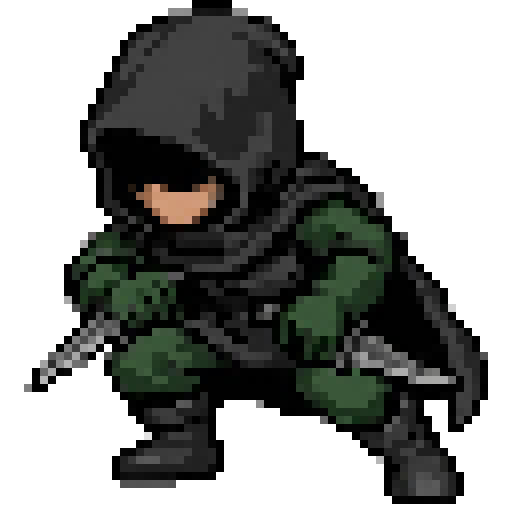
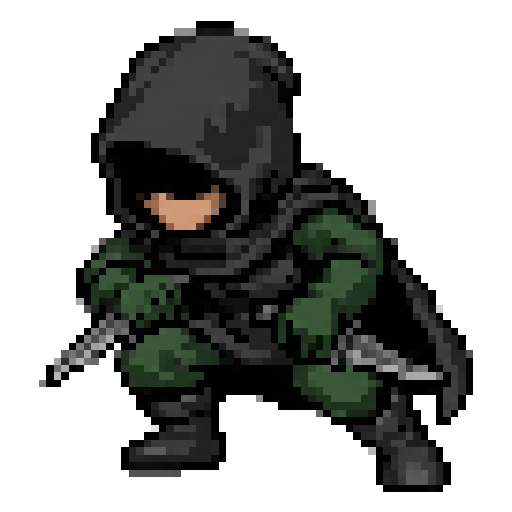
Resize Assassin portrait, archive raw Gemini sources, add enemy tool
- Shrink/recenter the Assassin hero portrait so it fills the frame at
  the same ~92% ratio as the other 5 (it was noticeably bigger in-game).
- Add archive/gemini-sources/ (cards + heroes, 44 files) with the raw
  Gemini images as provided, before pixelation -- kept outside game/ so
  it's never packaged with the game. The 8 Guerrier cards and Paladin's
  Rempart/Provocateur predate this and aren't backfillable (no reliable
  image-to-asset mapping kept for them).
- tools/pixelate-card.js and tools/pixelate-character.js now copy their
  input into that archive automatically on every run.
- Add tools/pixelate-enemy.js, the same pipeline (downscale + nearest-
  neighbour upscale, background stripping, auto-archiving) for the
  upcoming enemy sprite rework, writing to
  game/assets/characters/enemies/<template_id>.png.

Changed region(s): [[0.0312, 0.0, 0.9688, 1.0], [0.5, 0.2188, 0.5312, 0.25]]

diff --git a/tools/pixelate-enemy.js b/tools/pixelate-enemy.js
@@ -1,0 +1,53 @@
+// Post-traitement pixel-art pour les sprites d'ennemi générés "à la main" via un
+// outil externe (Gemini, etc.) -- même principe que tools/pixelate-character.js
+// (downscale vers la grille "character" 64x64 PUIS agrandissement en "plus proche
+// voisin", détourage du fond quasi-blanc) mais écrit dans
+// game/assets/characters/enemies/<template_id>.png (voir Sprites.enemy, sprites.lua).
+//
+// Usage : node tools/pixelate-enemy.js chemin/vers/image-source.png <template_id>
+// `template_id` = l'id de l'ennemi dans game/src/data/enemies.lua (ex. "gobelin",
+// "aigle-vol" pour la variante en vol de l'Aigle Géant).
+//
+// Prérequis important : l'image source doit avoir un fond BLANC ou quasi-blanc
+// (le prompt Gemini doit le demander explicitement) -- stripBackground ne sait
+// détourer que du quasi-blanc, jamais une autre couleur de fond.
+//
+// Archive AUSSI la source brute (2026-09-22, demande explicite -- garder trace de
+// l'image Gemini telle que fournie, avant tout traitement) dans
+// archive/gemini-sources/enemies/<template_id>.png -- hors de game/, jamais
+// empaqueté dans le jeu. Écrase une archive précédente du même id (une
+// regénération remplace l'ancienne source, comme pour l'asset final lui-même).
+
+const fs = require('fs');
+const path = require('path');
+const sharp = require('sharp');
+const { GRID_PRESETS, FINAL_SIZE, stripBackground } = require('./lib/gen-core');
+
+async function main() {
+  const [, , inPath, templateId] = process.argv;
+  if (!inPath || !templateId) {
+    console.error('Usage: node tools/pixelate-enemy.js chemin/vers/image-source.png <template_id>');
+    process.exit(1);
+  }
+  if (!fs.existsSync(inPath)) {
+    console.error('Fichier introuvable :', inPath);
+    process.exit(1);
+  }
+
+  const gridSize = GRID_PRESETS.character;
+  const outPath = path.join(__dirname, '..', 'game', 'assets', 'characters', 'enemies', `${templateId}.png`);
+  fs.mkdirSync(path.dirname(outPath), { recursive: true });
+
+  const archivePath = path.join(__dirname, '..', 'archive', 'gemini-sources', 'enemies', `${templateId}.png`);
+  fs.mkdirSync(path.dirname(archivePath), { recursive: true });
+  fs.copyFileSync(inPath, archivePath);
+
+  const small = await sharp(inPath).resize(gridSize, gridSize, { fit: 'cover', kernel: 'nearest' }).toBuffer();
+  const transparent = await stripBackground(small, gridSize, gridSize);
+  await sharp(transparent).resize(FINAL_SIZE, FINAL_SIZE, { kernel: 'nearest' }).toFile(outPath);
+
+  console.log('OK ->', outPath, `(grille ${gridSize}x${gridSize}, détourée)`);
+  console.log('   archive source ->', archivePath);
+}
+
+main().catch((e) => { console.error('FAILED:', e.message); process.exit(1); });

diff --git a/tools/pixelate-card.js b/tools/pixelate-card.js
@@ -5,6 +5,12 @@
 // Écrit dans game/assets/cards/<code-carte>.png (voir Sprites.card, sprites.lua --
 // le jeu charge l'illustration par CE code, pas par le nom affiché de la carte).
 //
+// Archive AUSSI la source brute (2026-09-22, demande explicite -- garder trace de
+// l'image Gemini telle que fournie, avant tout traitement) dans
+// archive/gemini-sources/cards/<code-carte>.png -- hors de game/, jamais empaqueté
+// dans le jeu. Écrase une archive précédente du même code (une regénération remplace
+// l'ancienne source, comme pour l'asset final lui-même).
+//
 // Les générateurs généralistes (Gemini compris) ne produisent jamais du vrai pixel
 // art malgré le prompt : "pixel art style" en texte seul reste une peinture
 // numérique avec un filtre -- dégradés doux, anti-aliasing, grille non alignée.
@@ -43,10 +49,15 @@ async function main() {
   const outPath = path.join(__dirname, '..', 'game', 'assets', 'cards', `${code}.png`);
   fs.mkdirSync(path.dirname(outPath), { recursive: true });
 
+  const archivePath = path.join(__dirname, '..', 'archive', 'gemini-sources', 'cards', `${code}.png`);
+  fs.mkdirSync(path.dirname(archivePath), { recursive: true });
+  fs.copyFileSync(inPath, archivePath);
+
   const small = await sharp(inPath).resize(gridSize, gridSize, { fit: 'cover', kernel: 'nearest' }).toBuffer();
   await sharp(small).resize(FINAL_SIZE, FINAL_SIZE, { kernel: 'nearest' }).toFile(outPath);
 
   console.log('OK ->', outPath, `(grille ${gridSize}x${gridSize})`);
+  console.log('   archive source ->', archivePath);
 }
 
 main().catch((e) => { console.error('FAILED:', e.message); process.exit(1); });

diff --git a/tools/pixelate-character.js b/tools/pixelate-character.js
@@ -24,6 +24,12 @@
 // Si la source est une CAPTURE D'ÉCRAN de l'outil de génération (boutons/pagination
 // visibles autour de l'image, pas un export propre) : recadrer d'abord pour ne
 // garder que l'image elle-même, ce script ne le fait pas à sa place.
+//
+// Archive AUSSI la source brute (2026-09-22, demande explicite -- garder trace de
+// l'image Gemini telle que fournie, avant tout traitement) dans
+// archive/gemini-sources/heroes/<class_id>.png -- hors de game/, jamais empaqueté
+// dans le jeu. Écrase une archive précédente du même id (une regénération remplace
+// l'ancienne source, comme pour l'asset final lui-même).
 
 const fs = require('fs');
 const path = require('path');
@@ -45,11 +51,16 @@ async function main() {
   const outPath = path.join(__dirname, '..', 'game', 'assets', 'characters', 'heroes', `${classId}.png`);
   fs.mkdirSync(path.dirname(outPath), { recursive: true });
 
+  const archivePath = path.join(__dirname, '..', 'archive', 'gemini-sources', 'heroes', `${classId}.png`);
+  fs.mkdirSync(path.dirname(archivePath), { recursive: true });
+  fs.copyFileSync(inPath, archivePath);
+
   const small = await sharp(inPath).resize(gridSize, gridSize, { fit: 'cover', kernel: 'nearest' }).toBuffer();
   const transparent = await stripBackground(small, gridSize, gridSize);
   await sharp(transparent).resize(FINAL_SIZE, FINAL_SIZE, { kernel: 'nearest' }).toFile(outPath);
 
   console.log('OK ->', outPath, `(grille ${gridSize}x${gridSize}, détourée)`);
+  console.log('   archive source ->', archivePath);
 }
 
 main().catch((e) => { console.error('FAILED:', e.message); process.exit(1); });
